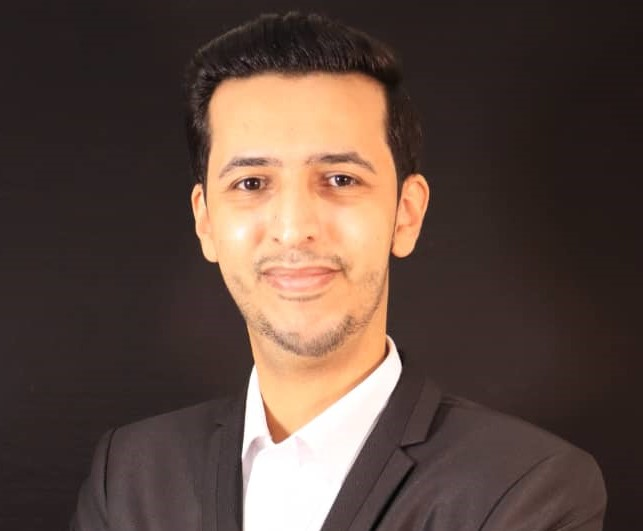
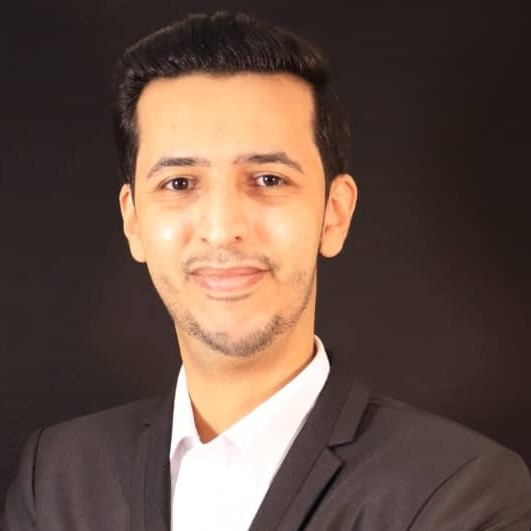
update image and talks page

diff --git a/_pages/about.md b/_pages/about.md
@@ -1,6 +1,6 @@
 ---
 permalink: /
-title: "academicpages is a ready-to-fork GitHub Pages template for academic personal websites"
+title: "Zaid Alyafeai"
 excerpt: "About me"
 author_profile: true
 redirect_from: 
@@ -8,43 +8,9 @@ redirect_from:
   - /about.html
 ---
 
-This is the front page of a website that is powered by the [academicpages template](https://github.com/academicpages/academicpages.github.io) and hosted on GitHub pages. [GitHub pages](https://pages.github.com) is a free service in which websites are built and hosted from code and data stored in a GitHub repository, automatically updating when a new commit is made to the respository. This template was forked from the [Minimal Mistakes Jekyll Theme](https://mmistakes.github.io/minimal-mistakes/) created by Michael Rose, and then extended to support the kinds of content that academics have: publications, talks, teaching, a portfolio, blog posts, and a dynamically-generated CV. You can fork [this repository](https://github.com/academicpages/academicpages.github.io) right now, modify the configuration and markdown files, add your own PDFs and other content, and have your own site for free, with no ads! An older version of this template powers my own personal website at [stuartgeiger.com](http://stuartgeiger.com), which uses [this Github repository](https://github.com/staeiou/staeiou.github.io).
+## Who I am
+I am a PhD candidate at [KFUPM](http://www.kfupm.edu.sa/Default.aspx) expected to graduate by the end of 2023. My thesis is about encorporating Morphlogy into language understanding for Arabic. I target this task from different aspects including tokenization, text generation, interpertability, and cross lingual understanding. 
 
-A data-driven personal website
-======
-Like many other Jekyll-based GitHub Pages templates, academicpages makes you separate the website's content from its form. The content & metadata of your website are in structured markdown files, while various other files constitute the theme, specifying how to transform that content & metadata into HTML pages. You keep these various markdown (.md), YAML (.yml), HTML, and CSS files in a public GitHub repository. Each time you commit and push an update to the repository, the [GitHub pages](https://pages.github.com/) service creates static HTML pages based on these files, which are hosted on GitHub's servers free of charge.
+## Open Research
+In the past few years, I worked on multiple open research collaborative spaces including [arbml](https://arbml.github.io/website/), [bigscience](https://bigscience.huggingface.co/), and [C4AI](https://cohere.for.ai/).
 
-Many of the features of dynamic content management systems (like Wordpress) can be achieved in this fashion, using a fraction of the computational resources and with far less vulnerability to hacking and DDoSing. You can also modify the theme to your heart's content without touching the content of your site. If you get to a point where you've broken something in Jekyll/HTML/CSS beyond repair, your markdown files describing your talks, publications, etc. are safe. You can rollback the changes or even delete the repository and start over -- just be sure to save the markdown files! Finally, you can also write scripts that process the structured data on the site, such as [this one](https://github.com/academicpages/academicpages.github.io/blob/master/talkmap.ipynb) that analyzes metadata in pages about talks to display [a map of every location you've given a talk](https://academicpages.github.io/talkmap.html).
-
-Getting started
-======
-1. Register a GitHub account if you don't have one and confirm your e-mail (required!)
-1. Fork [this repository](https://github.com/academicpages/academicpages.github.io) by clicking the "fork" button in the top right. 
-1. Go to the repository's settings (rightmost item in the tabs that start with "Code", should be below "Unwatch"). Rename the repository "[your GitHub username].github.io", which will also be your website's URL.
-1. Set site-wide configuration and create content & metadata (see below -- also see [this set of diffs](http://archive.is/3TPas) showing what files were changed to set up [an example site](https://getorg-testacct.github.io) for a user with the username "getorg-testacct")
-1. Upload any files (like PDFs, .zip files, etc.) to the files/ directory. They will appear at https://[your GitHub username].github.io/files/example.pdf.  
-1. Check status by going to the repository settings, in the "GitHub pages" section
-
-Site-wide configuration
-------
-The main configuration file for the site is in the base directory in [_config.yml](https://github.com/academicpages/academicpages.github.io/blob/master/_config.yml), which defines the content in the sidebars and other site-wide features. You will need to replace the default variables with ones about yourself and your site's github repository. The configuration file for the top menu is in [_data/navigation.yml](https://github.com/academicpages/academicpages.github.io/blob/master/_data/navigation.yml). For example, if you don't have a portfolio or blog posts, you can remove those items from that navigation.yml file to remove them from the header. 
-
-Create content & metadata
-------
-For site content, there is one markdown file for each type of content, which are stored in directories like _publications, _talks, _posts, _teaching, or _pages. For example, each talk is a markdown file in the [_talks directory](https://github.com/academicpages/academicpages.github.io/tree/master/_talks). At the top of each markdown file is structured data in YAML about the talk, which the theme will parse to do lots of cool stuff. The same structured data about a talk is used to generate the list of talks on the [Talks page](https://academicpages.github.io/talks), each [individual page](https://academicpages.github.io/talks/2012-03-01-talk-1) for specific talks, the talks section for the [CV page](https://academicpages.github.io/cv), and the [map of places you've given a talk](https://academicpages.github.io/talkmap.html) (if you run this [python file](https://github.com/academicpages/academicpages.github.io/blob/master/talkmap.py) or [Jupyter notebook](https://github.com/academicpages/academicpages.github.io/blob/master/talkmap.ipynb), which creates the HTML for the map based on the contents of the _talks directory).
-
-**Markdown generator**
-
-I have also created [a set of Jupyter notebooks](https://github.com/academicpages/academicpages.github.io/tree/master/markdown_generator
-) that converts a CSV containing structured data about talks or presentations into individual markdown files that will be properly formatted for the academicpages template. The sample CSVs in that directory are the ones I used to create my own personal website at stuartgeiger.com. My usual workflow is that I keep a spreadsheet of my publications and talks, then run the code in these notebooks to generate the markdown files, then commit and push them to the GitHub repository.
-
-How to edit your site's GitHub repository
-------
-Many people use a git client to create files on their local computer and then push them to GitHub's servers. If you are not familiar with git, you can directly edit these configuration and markdown files directly in the github.com interface. Navigate to a file (like [this one](https://github.com/academicpages/academicpages.github.io/blob/master/_talks/2012-03-01-talk-1.md) and click the pencil icon in the top right of the content preview (to the right of the "Raw | Blame | History" buttons). You can delete a file by clicking the trashcan icon to the right of the pencil icon. You can also create new files or upload files by navigating to a directory and clicking the "Create new file" or "Upload files" buttons. 
-
-Example: editing a markdown file for a talk
-![Editing a markdown file for a talk](/images/editing-talk.png)
-
-For more info
-------
-More info about configuring academicpages can be found in [the guide](https://academicpages.github.io/markdown/). The [guides for the Minimal Mistakes theme](https://mmistakes.github.io/minimal-mistakes/docs/configuration/) (which this theme was forked from) might also be helpful.

diff --git a/_talks/2022-08-11-talk-2.md b/_talks/2022-08-11-talk-2.md
@@ -1,0 +1,12 @@
+---
+title: "Fostering Research in Arabic NLP via Open Source Collaboration"
+collection: talks
+type: "Talk"
+permalink: 2022-08-11-talk2
+venue: "NLP with Friends"
+date: 2020-07-25
+location: "online"
+---
+<div>
+  <a href="https://www.youtube.com/watch?v=-kPkBFlmACw&ab"><img src="http://i3.ytimg.com/vi/-kPkBFlmACw/hqdefault.jpg" alt="IMAGE ALT TEXT"></a>
+</div>

diff --git a/_talks/2022-07-01-talk-3.md b/_talks/2022-07-01-talk-3.md
@@ -1,0 +1,12 @@
+---
+title: "Enabling Research via Open Colaboration on Arabic NLP"
+collection: talks
+type: "Talk"
+permalink: 2022-07-01-talk3
+venue: "ML Collective"
+date: 2022-07-01
+location: "online"
+---
+<div>
+  <a href="https://www.youtube.com/watch?v=tXWcrwOwhFE"><img src="https://img.youtube.com/vi/tXWcrwOwhFE/0.jpg" alt="IMAGE ALT TEXT"></a>
+</div>

diff --git a/_talks/2020-07-25-talk-1.md b/_talks/2020-07-25-talk-1.md
@@ -1,0 +1,12 @@
+---
+title: "ARBML"
+collection: talks
+type: "Talk"
+permalink: 2020-07-25-talk1
+venue: "Pydata Riyadh"
+date: 2020-07-25
+location: "online"
+---
+<div>
+  <a href="https://www.youtube.com/watch?v=4VAxMtLwbv0"><img src="https://img.youtube.com/vi/4VAxMtLwbv0/0.jpg" alt="IMAGE ALT TEXT"></a>
+</div>
